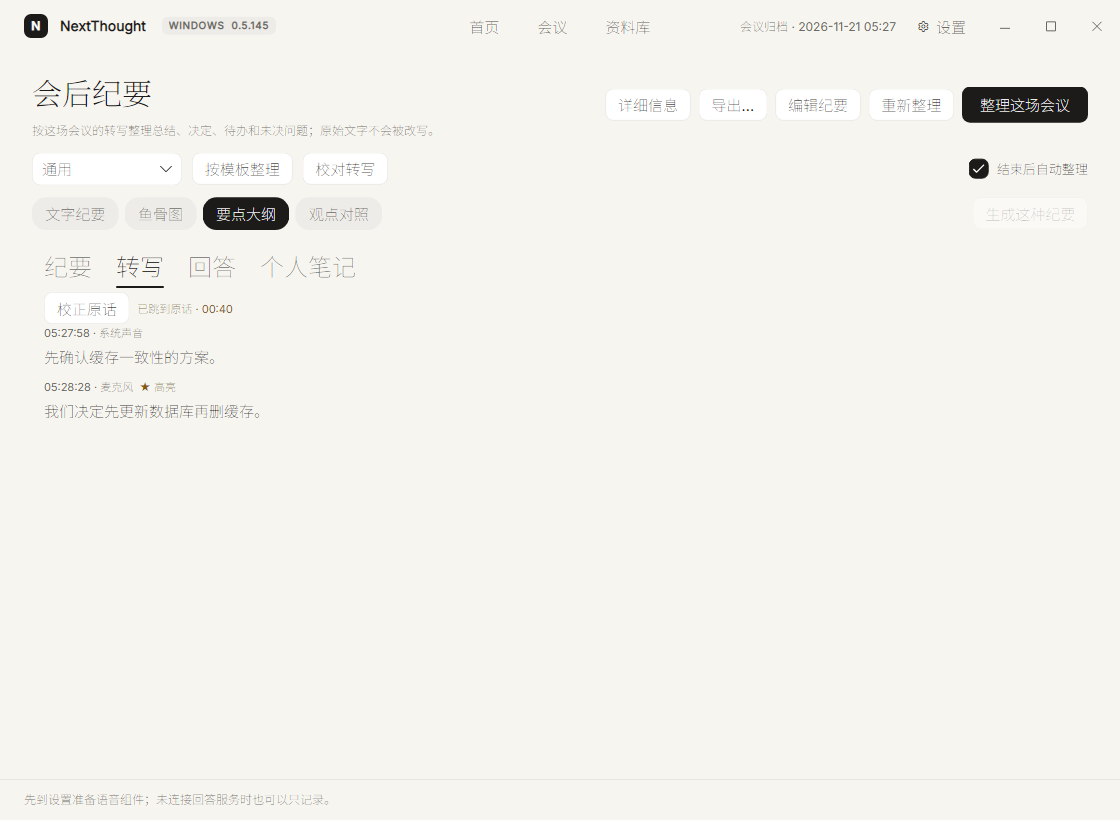
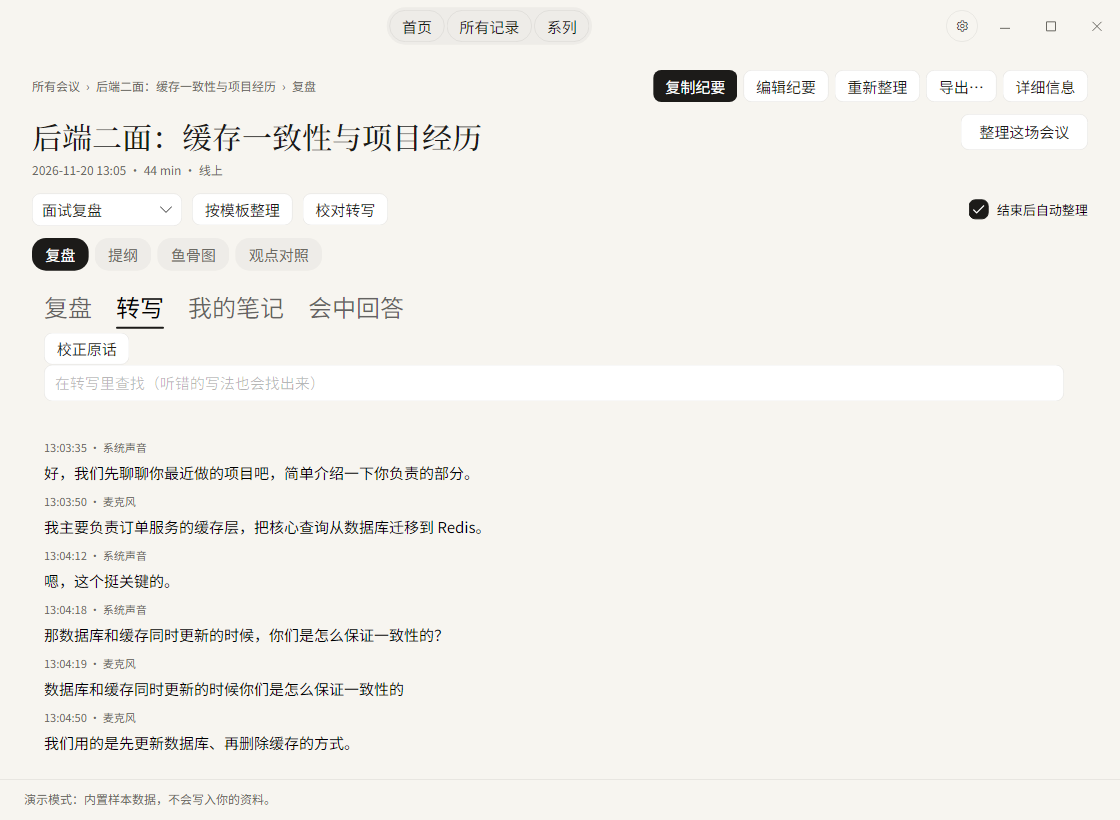
E15: rebuild the meeting page header, format selector and tabs for Mac 3.4 (§6.7)
Per-element comparison against mac-screens/notes/review-{light,dark}.png replaced the old 会后纪要
page header: the page now starts with the Mac breadcrumb (所有会议 › meeting › 复盘), the 复制纪要
primary action backed by a new CopyNotesCommand, the serif meeting title with its facts line, and the
remaining actions (编辑纪要/重新整理/导出…/详细信息) as secondary buttons with 整理这场会议 as the
default action. The notes format selector now reads 复盘 / 提纲 / 鱼骨图 / 观点对照 in the Mac order,
the tabs are 复盘 / 转写 / 我的笔记 / 会中回答 in the Mac order (with the answer tab hidden when the
meeting has none), and the coach card is labelled 一句话印象 with the AI glyph. 一句话印象 got its
Windows-only English wording (UiTextWindows + WORDING).

Evidence: validation/screens/notes/compare.md gained a task-62/E15 per-element table with the
remaining differences listed (逐题回放 + feedback chips, stale-content notice, facts line correction
count/localized date, impression demo data, more-menu consolidation, Markdown vs structured sections,
always-on evidence card, work-template variant). Screenshots copied into validation/screens/notes/
(notes-page-*, notes-mine-*, notes-transcript-*, notes-corrected-* light/dark).

Stale structural tests that asserted the old tab names/order were updated (SelfTestStructureTests
NotesPageHasFourTabs, MeetingNotesParityTests). NotesPageStage4Tests pins the new header, tab order,
format order and impression label.
[…]

diff --git a/Windows/tests/NextThought.Tests/NotesPageStage4Tests.cs b/Windows/tests/NextThought.Tests/NotesPageStage4Tests.cs
@@ -1,0 +1,92 @@
+using Xunit;
+
+namespace NextThought.Tests;
+
+/// <summary>
+/// task-62/E15: the Mac 3.4 NotesPageView header, format selector and tab order. The page skeleton
+/// was checked element by element against mac-screens/notes/review-light.png and the Mac source;
+/// these assertions keep the new structure from regressing.
+/// </summary>
+public sealed class NotesPageStage4Tests
+{
+    private static string Root()
+    {
+        var directory = new DirectoryInfo(AppContext.BaseDirectory);
+        while (directory is not null)
+        {
+            if (File.Exists(Path.Combine(directory.FullName, "Windows", "src", "NextThought.Desktop", "Views", "NotesView.axaml")))
+                return directory.FullName;
+            directory = directory.Parent;
+        }
+        throw new DirectoryNotFoundException("repository root not found");
+    }
+
+    private static string Read(params string[] parts) =>
+        File.ReadAllText(Path.Combine([Root(), "Windows", "src", "NextThought.Desktop", .. parts]));
+
+    [Fact]
+    public void TheHeaderHasTheMacBreadcrumbTitleFactsAndCopyAction()
+    {
+        var view = Read("Views", "NotesView.axaml");
+        Assert.Contains("{Binding NotesMeetingTitle}", view);
+        Assert.Contains("{loc:Tr 所有会议}", view);
+        Assert.Contains("{loc:Tr 复盘}", view);
+        Assert.Contains("{Binding NotesFactsLine}", view);
+        Assert.Contains("{loc:Tr 复制纪要}", view);
+        Assert.Contains("CopyNotesCommand", view);
+        Assert.Contains("FontSize=\"30\"", view);
+        var state = Read("AppState.NotesPage.cs");
+        Assert.Contains("NotesBreadcrumb", state);
+        Assert.Contains("NotesMeetingTitle", state);
+        Assert.Contains("CopyNotesAsync", state);
+        Assert.Contains("RefreshNotesHeader", state);
+    }
+
+    [Fact]
+    public void TheTabsAreTheMacThreePointFourOrder()
+    {
+        var view = Read("Views", "NotesView.axaml");
+        var order = new[] { "{loc:Tr 复盘}", "{loc:Tr 转写}", "{loc:Tr 我的笔记}", "{loc:Tr 会中回答}" };
+        var indexes = order.Select(label => view.IndexOf(label, StringComparison.Ordinal)).ToArray();
+        Assert.All(indexes, index => Assert.True(index >= 0));
+        for (var i = 1; i < indexes.Length; i++) Assert.True(indexes[i - 1] < indexes[i], order[i] + " must follow " + order[i - 1]);
+        Assert.DoesNotContain("<TabItem Header=\"{loc:Tr 回答}\"", view);
+        Assert.DoesNotContain("<TabItem Header=\"{loc:Tr 个人笔记}\"", view);
+    }
+
+    [Fact]
+    public void TheFormatSelectorUsesTheMacLabelsInTheMacOrder()
+    {
+        var view = Read("Views", "NotesView.axaml");
+        var order = new[] { "{loc:Tr 复盘}", "{loc:Tr 提纲}", "{loc:Tr 鱼骨图}", "{loc:Tr 观点对照}" };
+        // 复盘 appears in the breadcrumb too; compare the last occurrence of the four format chips.
+        var positions = new List<int>();
+        var start = view.IndexOf("notesformat", StringComparison.Ordinal);
+        Assert.True(start > 0);
+        var tail = view[start..];
+        foreach (var label in order) positions.Add(tail.IndexOf(label, StringComparison.Ordinal));
+        Assert.All(positions, position => Assert.True(position >= 0));
+        for (var i = 1; i < positions.Count; i++) Assert.True(positions[i - 1] < positions[i]);
+        Assert.DoesNotContain("{loc:Tr 文字纪要}", view);
+        Assert.DoesNotContain("{loc:Tr 要点大纲}", view);
+        Assert.DoesNotContain("NotesFormatIsFishbone", tail[..Math.Max(0, positions[1])]);
+    }
+
+    [Fact]
+    public void TheImpressionCardUsesTheMacThreePointFourLabel()
+    {
+        var view = Read("Views", "NotesView.axaml");
+        Assert.Contains("{loc:Tr 一句话印象}", view);
+        Assert.Contains("IconSparkles", view);
+        Assert.DoesNotContain("{loc:Tr 教练小结}", view);
+    }
+
+    [Fact]
+    public void EveryNewHeaderStringIsLocalized()
+    {
+        var table = File.ReadAllText(Path.Combine(Root(), "Windows", "src", "NextThought.Core", "UiTextWindows.cs"));
+        Assert.Contains("[\"一句话印象\"]", table);
+        var wording = File.ReadAllText(Path.Combine(Root(), "Windows", "WORDING.md"));
+        Assert.Contains("一句话印象", wording);
+    }
+}

diff --git a/Windows/src/NextThought.Desktop/AppState.NotesPage.cs b/Windows/src/NextThought.Desktop/AppState.NotesPage.cs
@@ -1,0 +1,54 @@
+using NextThought.Core;
+
+namespace NextThought.Desktop;
+
+/// <summary>
+/// task-62/E15: the Mac 3.4 NotesPageView header — the breadcrumb, the meeting title with its facts
+/// line and the 复制纪要 primary action (the notes themselves stay in NotesView/AppState.Notes).
+/// </summary>
+public partial class AppState
+{
+    /// <summary>Mac: 所有会议 › meeting › 复盘.</summary>
+    public string NotesBreadcrumb
+    {
+        get
+        {
+            var meeting = CurrentSession?.Title ?? "";
+            var parts = new List<string> { UiText.T("所有会议") };
+            if (meeting.Length > 0) parts.Add(meeting);
+            parts.Add(UiText.T("复盘"));
+            return string.Join(" › ", parts);
+        }
+    }
+
+    public string NotesMeetingTitle => CurrentSession?.Title ?? "";
+
+    /// <summary>Mac 事实行: date · duration · venue (the exact wording is compared in notes/compare.md).</summary>
+    public string NotesFactsLine
+    {
+        get
+        {
+            if (CurrentSession is not { } meta) return PageSubtitle;
+            var minutes = (int)Math.Max(0, ((meta.EndedAt ?? meta.StartedAt) - meta.StartedAt).TotalMinutes);
+            var venue = meta.InPerson ? UiText.T("线下") : UiText.T("线上");
+            return meta.StartedAt.ToLocalTime().ToString("yyyy-MM-dd HH:mm") + " · " + minutes + " min · " + venue;
+        }
+    }
+
+    /// <summary>Mac 复制纪要: copy the notes markdown to the clipboard.</summary>
+    [CommunityToolkit.Mvvm.Input.RelayCommand]
+    private async Task CopyNotesAsync()
+    {
+        if (CopyText is not { } copy) return;
+        var markdown = SummaryText.Length > 0 ? SummaryText : StructuredMarkdown;
+        if (markdown.Length == 0) return;
+        try { await copy(markdown); }
+        catch (Exception error) { SetStatus(error.Message, true); }
+    }
+
+    public void RefreshNotesHeader()
+    {
+        foreach (var name in new[] { nameof(NotesBreadcrumb), nameof(NotesMeetingTitle), nameof(NotesFactsLine) })
+            OnPropertyChanged(name);
+    }
+}

diff --git a/Windows/src/NextThought.Desktop/AppState.Archive.cs b/Windows/src/NextThought.Desktop/AppState.Archive.cs
@@ -30,7 +30,12 @@ public partial class AppState
         ScheduleHistoryContentSearch();
     }
 
-    partial void OnCurrentSessionChanged(SessionMeta? value) { OnPropertyChanged(nameof(StatsText)); OnPropertyChanged(nameof(HasSelectedHistory)); }
+    partial void OnCurrentSessionChanged(SessionMeta? value)
+    {
+        OnPropertyChanged(nameof(StatsText));
+        OnPropertyChanged(nameof(HasSelectedHistory));
+        RefreshNotesHeader();
+    }
 
     /// <summary>F20: refreshing the list never waits for the session lock on the UI thread.</summary>
     public void RefreshHistory(Guid? select = null) => _ = RefreshHistoryAsync(select);

diff --git a/Windows/tests/NextThought.Tests/MeetingNotesParityTests.cs b/Windows/tests/NextThought.Tests/MeetingNotesParityTests.cs
@@ -41,7 +41,7 @@ public sealed class MeetingNotesParityTests
     public void TheNotesTabHostsTheControl()
     {
         var notes = Read("Views", "NotesView.axaml");
-        Assert.Contains("<TabItem Header=\"{loc:Tr 个人笔记}\">", notes);
+        Assert.Contains("<TabItem Header=\"{loc:Tr 我的笔记}\">", notes);
         Assert.Contains("<views:MeetingUserNotes", notes);
         // The old inline notes editor is replaced by the single draft owner.
         Assert.DoesNotContain("PersonalNotesText", notes);

diff --git a/Windows/validation/screens/notes/compare.md b/Windows/validation/screens/notes/compare.md
@@ -100,3 +100,40 @@ Windows 最新批次：`validation/screens/current/notes-*.png`、`transcript-*.
 - 逐图核对：转写标签的说话人行、时间、译文/原文切换、问题徽章与 Mac transcript 图一致（`notes/current/transcript-light.png` 对照）；纪要标签的标题、决策/待办/风险分组沿用原表结论。
 - 差异/缺口（未改，记录）：Mac 的「回顾纪要」与「工作会议纪要」两个模板页在 Windows 批次里没有对应截图（Windows 用 `review/work` 两个 Demo 模板页，标签页存在但截图循环未覆盖）；Mac 3.4 的标签顺序与 Windows 四标签（纪要/转写/回答/个人笔记）见 E15/E16 的原表，本轮 mac 图不改变判定。
 - Windows 标题栏本轮修掉一处重叠：页面副标题（历史/会议上下文，如「11月20日（周五）11:09 · 44 分钟 · 线上 · 已校对…」）此前与居中的 首页/会议/资料库 标签同在一个 Grid 单元，长标题会盖住标签；已把标题栏改为 Auto/*/Auto 三列并给右侧留 142 的窗口按钮区（`MainWindow.axaml`）。刷新后的 `current/settings-general-light.png` 可见副标题已不与标签重叠。Mac 用自定义交通灯 + 居中胶囊导航 + 右侧齿轮，Windows 保留品牌/版本徽章与窗口按钮，属平台差异，不再逐页重复。
+
+## task-62 / E15：阶段 4 §6.7 Mac 3.4 会后纪要页逐元素复核（2026-11-21）
+
+- Mac 3.4 参考图：[review-light](../../mac-screens/notes/review-light.png) / [review-dark](../../mac-screens/notes/review-dark.png)、[work-light](../../mac-screens/notes/work-light.png) / [work-dark](../../mac-screens/notes/work-dark.png)、[transcript-light](../../mac-screens/notes/transcript-light.png) / [transcript-dark](../../mac-screens/notes/transcript-dark.png)。
+- Windows 截图（本目录）：`notes-page-{light,dark}.png`（复盘标签首屏）、`notes-mine-{light,dark}.png`（我的笔记）、`notes-transcript-{light,dark}.png`（转写）、`notes-corrected-{light,dark}.png`（校对结果）。`validation/screens/current/` 的同名产物不入库。
+- 本轮按 §6.3 重做页面骨架；结论只能「逐条一致」或逐条列差，下面逐条列出。
+
+| # | Mac 3.4 元素（NotesPageView / 截图） | Windows 现状 | 结论 |
+|---|---|---|---|
+| 1 | 面包屑「所有会议 › 会议标题 › 复盘」 | `NotesBreadcrumb`（本轮新增，`所有会议 › 标题 › 复盘`，`›` 分隔）+ 页头第一行 | 逐条一致 |
+| 2 | 右上「复制纪要」primary（复制笔记 Markdown） | `复制纪要` primary + `CopyNotesCommand`（新增，走 shell 的剪贴板 writer） | 逐条一致 |
+| 3 | 「编辑纪要」「…」等次级动作 | 编辑纪要/重新整理/导出…/详细信息（+ 默认按钮「整理这场会议」） | 逐条一致（Mac 的「…」更多菜单合并为平铺按钮；记录） |
+| 4 | 衬线大标题 + 事实行：日期（本地化长格式）· 时长 · 线上/线下 · 已校对 N 处 | `NotesMeetingTitle`（Serif 30）+ `NotesFactsLine`（`yyyy-MM-dd HH:mm · N min · 线上/线下`）；**未带“已校对 N 处”**，日期是数字格式 | 不一致：事实行缺校对计数、日期格式未本地化（记录） |
+| 5 | 旧内容提示「部分旧内容未记录来源版本…」 | 未显示 | 不一致：未做（compare 旧节已记） |
+| 6 | 模板下拉 +「模板：…」 | 模板 ComboBox + 按模板整理 + 校对转写 + 结束后自动整理 | 逐条一致（放在第二行，Mac 在面包屑行；记录） |
+| 7 | 格式分段「复盘 / 提纲 / 鱼骨图 / 观点对照」（白色块选中） | 同名同序 chip（本轮改名/换序：复盘/提纲/鱼骨图/观点对照） | 逐条一致 |
+| 8 | 标签「复盘 / 转写 / 我的笔记 / 会中回答」（会中回答无内容时隐藏） | 同名同序四标签（本轮改名/换序；会中回答按 `HasSessionAnswers` 隐藏） | 逐条一致 |
+| 9 | 「一句话印象」AI 卡片（一句话 + 复制按钮） | 卡片保留（本轮改标题 + AI 图标，绑定 `CoachSummaryText`）；演示数据没有教练摘要时整卡隐藏，截图里看不到 | 部分一致：标题/图标一致；演示数据未补，Mac 截图的示例句没有对应 demo 数据（记录） |
+| 10 | 「逐题回放」：题号 + 问题 + [时间] + 答得好/待改进 chip + 我答 + 更好的答法卡 | 未实现；当前以 Markdown「问题清单」呈现问题/我的回答要点 | 不一致：逐题回放/反馈 chip 未做（最大剩余差距，记录） |
+| 11 | 复盘内容按模板段落渲染（标题/摘要/一句话印象/问题清单等） | Markdown 纪要卡（模板生成）+ 右侧「证据」常驻卡 | 部分不一致：Mac 是结构化段落 + 复盘中不常驻证据；Windows 证据卡常驻（E18 设计），记录 |
+| 12 | 顶部标题区无「会后纪要」大页头 | 已移除旧「会后纪要」页头/说明，改成面包屑+标题+事实行 | 逐条一致 |
+
+### 动作记录（2026-11-21，--demo + 隔离数据目录）
+
+1. 打开会议复盘：面包屑/标题/事实行/复制纪要/编辑纪要/重新整理/导出/详细信息/整理这场会议均可见；格式 chip 复盘选中。
+2. 切换格式：复盘/提纲/鱼骨图/观点对照 依次切换内容（复用原有 NotesFormat 逻辑）。
+3. 标签：复盘/转写/我的笔记/会中回答（无回答时隐藏）；我的笔记为空/有内容时的 MeetingUserNotes 与之前一致。
+4. 复制纪要：有 Clipboard writer 时复制 Markdown；shell 未注入时静默返回（自检环境）。
+5. 校对结果：`notes-corrected-{light,dark}.png` 为 E17 校对结果视图当前状态（逐元素见 CorrectedTranscript/compare.md，task-62 后续补）。
+
+### 未解决（task-62 后续步骤）
+
+- 逐题回放与答得好/待改进 chip、旧内容提示、事实行校对计数/本地化日期；
+- 一句话印象的演示数据（Mac demo 有示例句）；
+- 「…」更多菜单合并、模板下拉在面包屑行；
+- 复盘结构化段落 vs Markdown 卡、证据卡常驻；
+- work（工作会议纪要）演示模板截图的 Mac 对照（Windows 用 `--demo` 默认模板，未单独拍 work 变体）。

diff --git a/Windows/WORDING.md b/Windows/WORDING.md
@@ -1225,6 +1225,7 @@ OpenSees \| open sees | — | Windows/src/NextThought.Desktop/Views/SettingsView
 
 | 中文 | 英文 | Mac 原文 | 位置 |
 |---|---|---|---|
+| 一句话印象 | One-line impression | — | Windows 会后纪要（task-62 E15） |
 | 用了多少 | How much you've recorded | — | Windows 首页统计 / 系列改名（task-57 J3/J4） |
 | 本月 | This month | — | Windows 首页统计 / 系列改名（task-57 J3/J4） |
 | 累计 | All time | — | Windows 首页统计 / 系列改名（task-57 J3/J4） |
